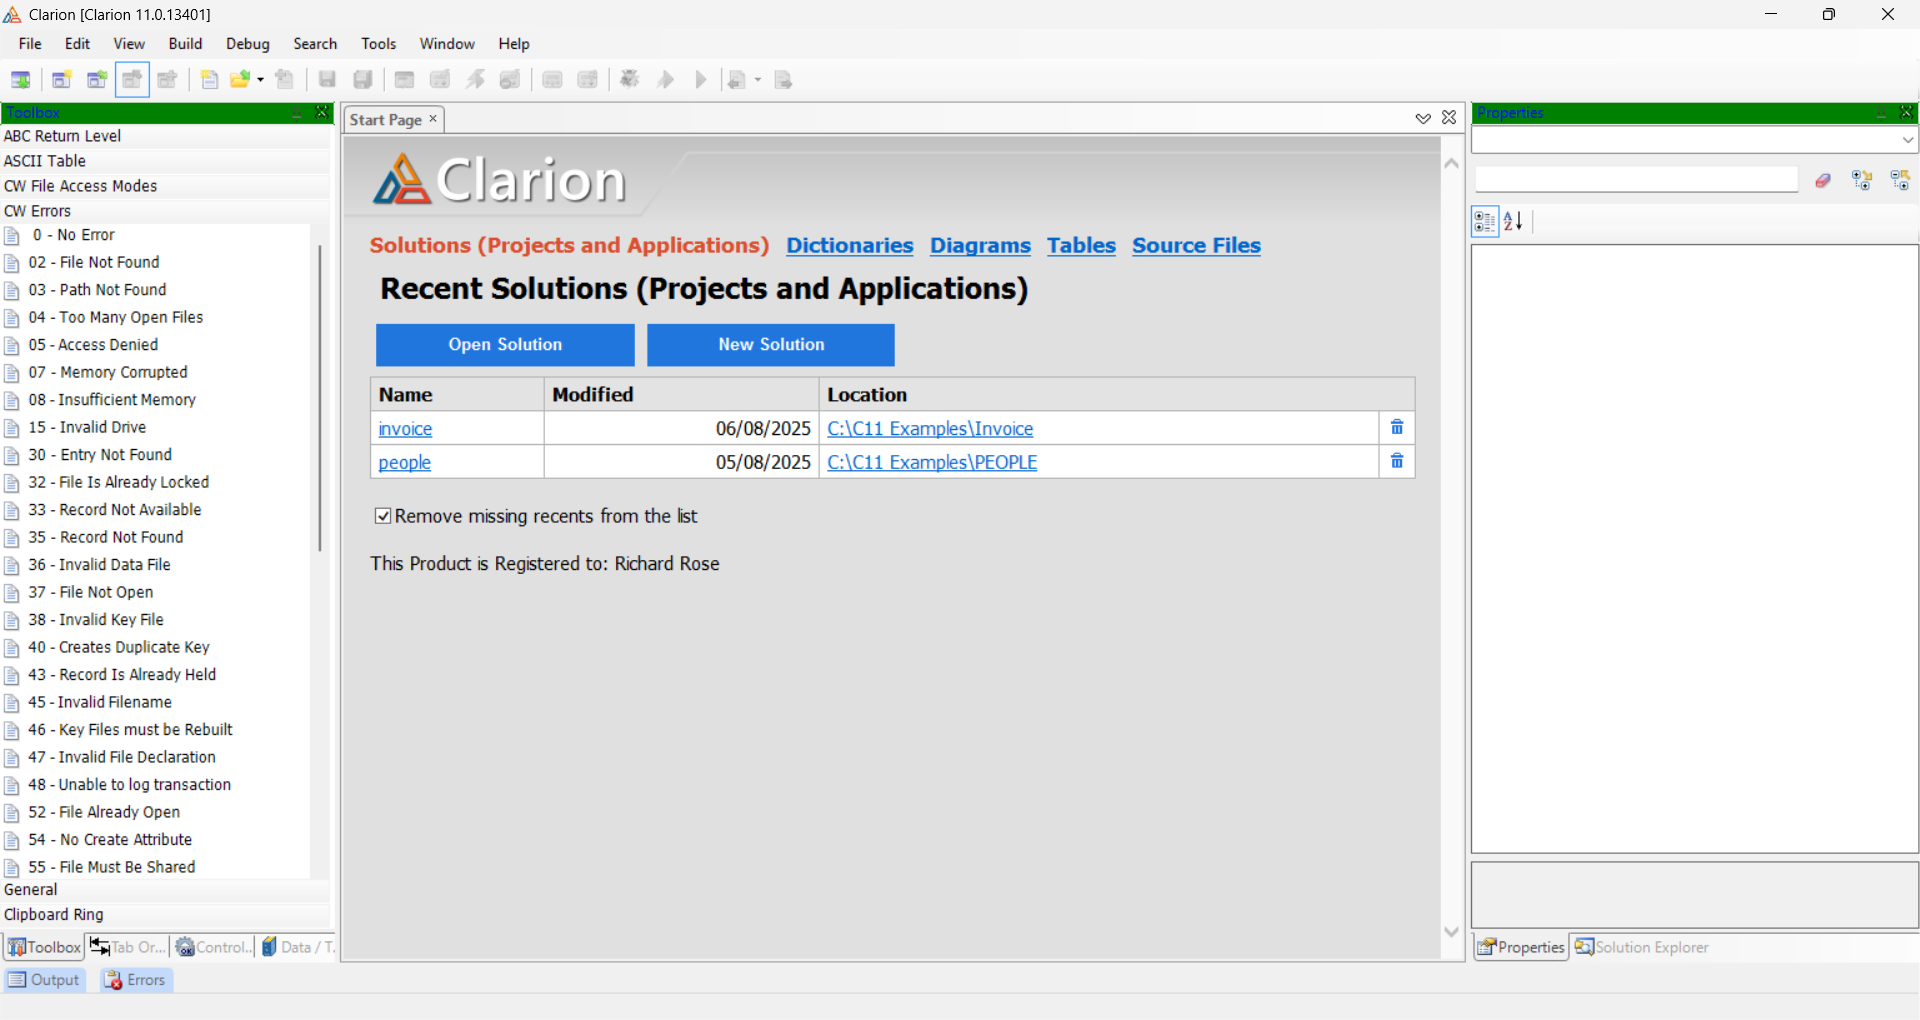
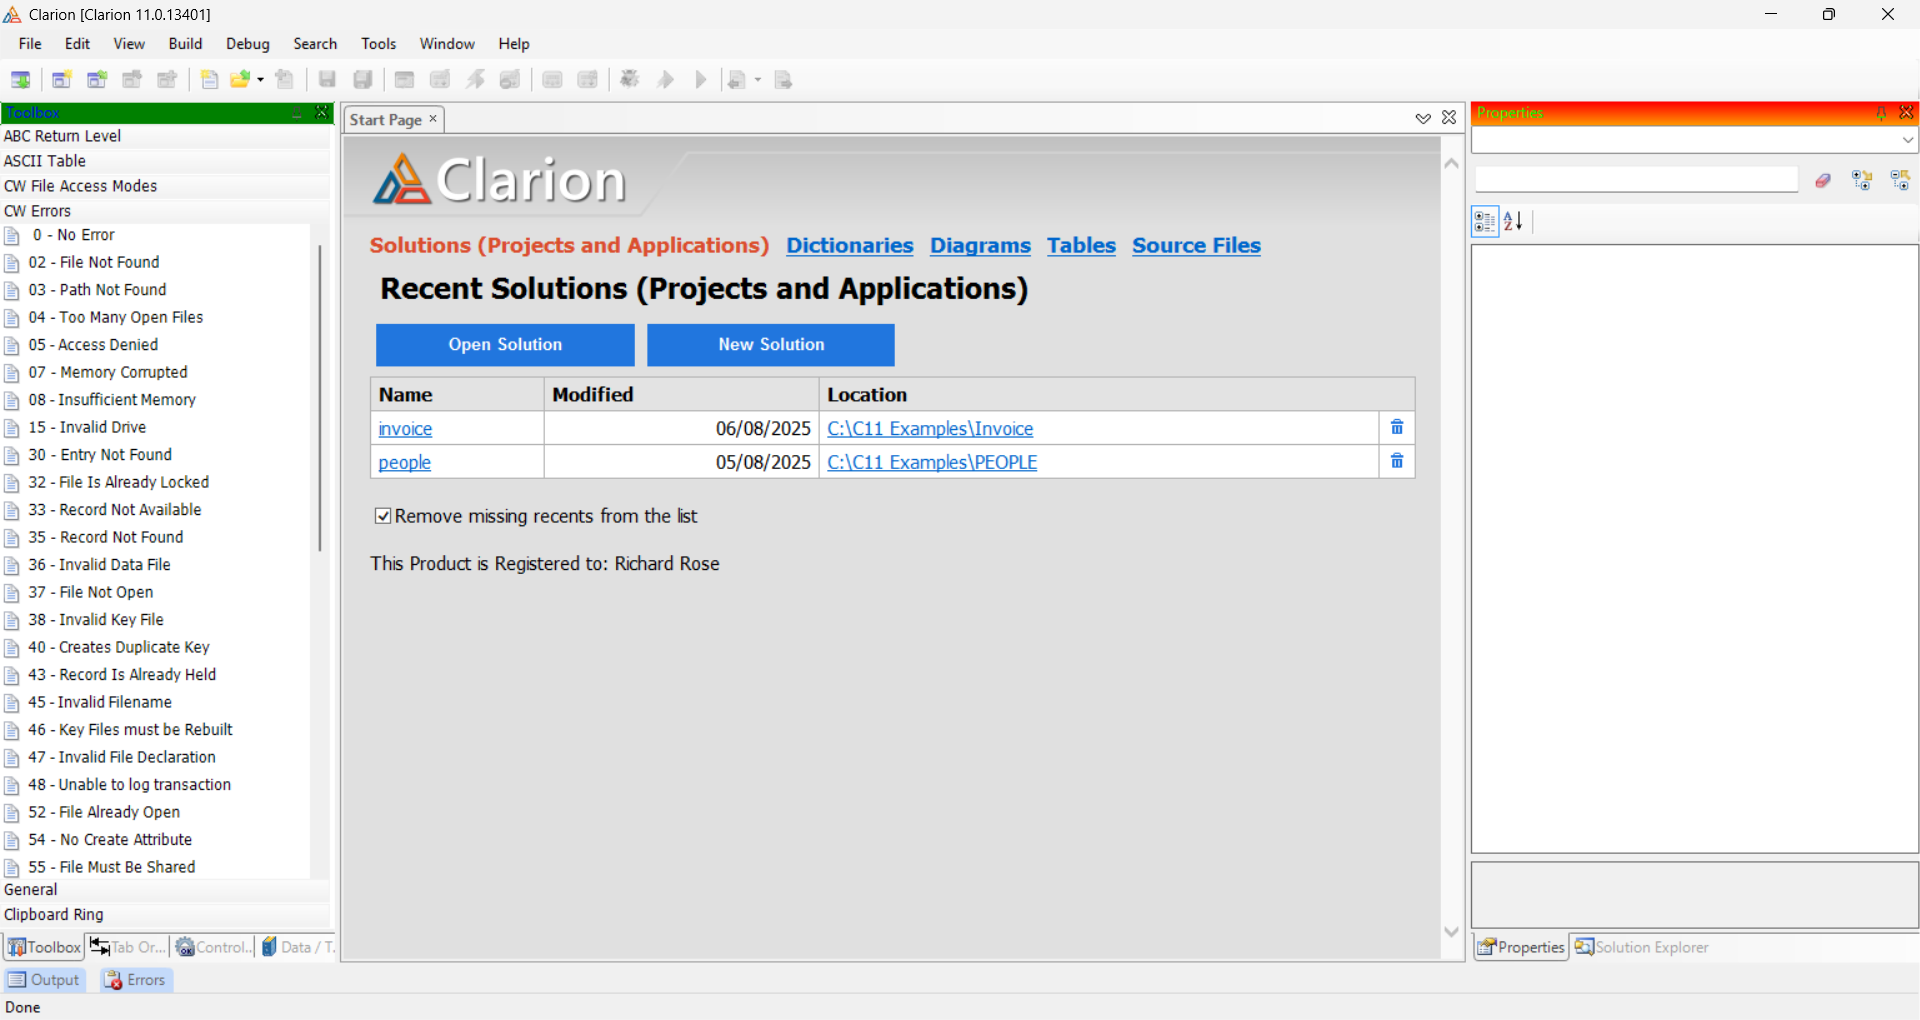
Update

Changed region(s): [[0.75, 0.0912, 1.0, 0.1216], [0.0, 0.9725, 0.0312, 1.0]]

diff --git a/Clarion_11_IDE_Colour_Schemes.md b/Clarion_11_IDE_Colour_Schemes.md
@@ -188,7 +188,7 @@ Default
   <xActiveBackColorGradientBegin>-65536</xActiveBackColorGradientBegin>     <!-- Dark red (#FF0000) -->
   <xActiveBackColorGradientEnd>-25856</xActiveBackColorGradientEnd>         <!-- Light red (#FF6A6A) -->
   <xActiveTextColor>-16711936</xActiveTextColor>                            <!-- Lime Green (#00FF00) -->
-  <xInactiveBackColor>--16744448</xInactiveBackColor>                       <!-- Green (#008000) -->
+  <xInactiveBackColor>-16744448</xInactiveBackColor>                       <!-- Green (#008000) -->
   <xInactiveTextColor>-16776961</xInactiveTextColor>                        <!-- Blue (#0000FF) -->
 </DockPadTitleAppearance>
 ```
@@ -203,42 +203,6 @@ App Gen
 ![Image](https://github.com/Intelligent-Silicon/Clarion-11-IDE/blob/main/ColourSchemes/Discovery/DockPadTitleAppearance/AppGen.png)
 
 
-### \<DockTabAppearance>
-Default
-```
-<DockTabAppearance>
-    <Active>
-        <xGradientBegin>-986896</xGradientBegin>
-        <xGradientEnd>-986896</xGradientEnd>
-        <xEdgeColor>-8355712</xEdgeColor>
-        <xTextColor>-10066330</xTextColor>
-    </Active>
-    <Inactive>
-        <xGradientBegin>-986896</xGradientBegin>
-        <xGradientEnd>-986896</xGradientEnd>
-        <xTextColor>-10066330</xTextColor>
-        <xEdgeColor>-855310</xEdgeColor>
-    </Inactive>
-    <PadActive>
-        <xGradientBegin>-986896</xGradientBegin>
-        <xGradientEnd>-986896</xGradientEnd>
-        <xEdgeColor>Gray</xEdgeColor>
-        <xTextColor>-12566464</xTextColor>
-    </PadActive>
-    <PadHide>
-        <xGradientBegin>-3876102</xGradientBegin>
-        <xGradientEnd>-3876102</xGradientEnd>
-        <xEdgeColor>-3876102</xEdgeColor>
-        <xTextColor>-10066330</xTextColor>
-    </PadHide>
-    <PadHideOver>
-        <xGradientBegin>-6373643</xGradientBegin>
-        <xGradientEnd>-6373643</xGradientEnd>
-        <xEdgeColor>-6373643</xEdgeColor>
-        <xTextColor>-12566464</xTextColor>
-    </PadHideOver>
-</DockTabAppearance>
-  ```
 ### \<DockTabAppearance> \<Active>
 Default
 ```
